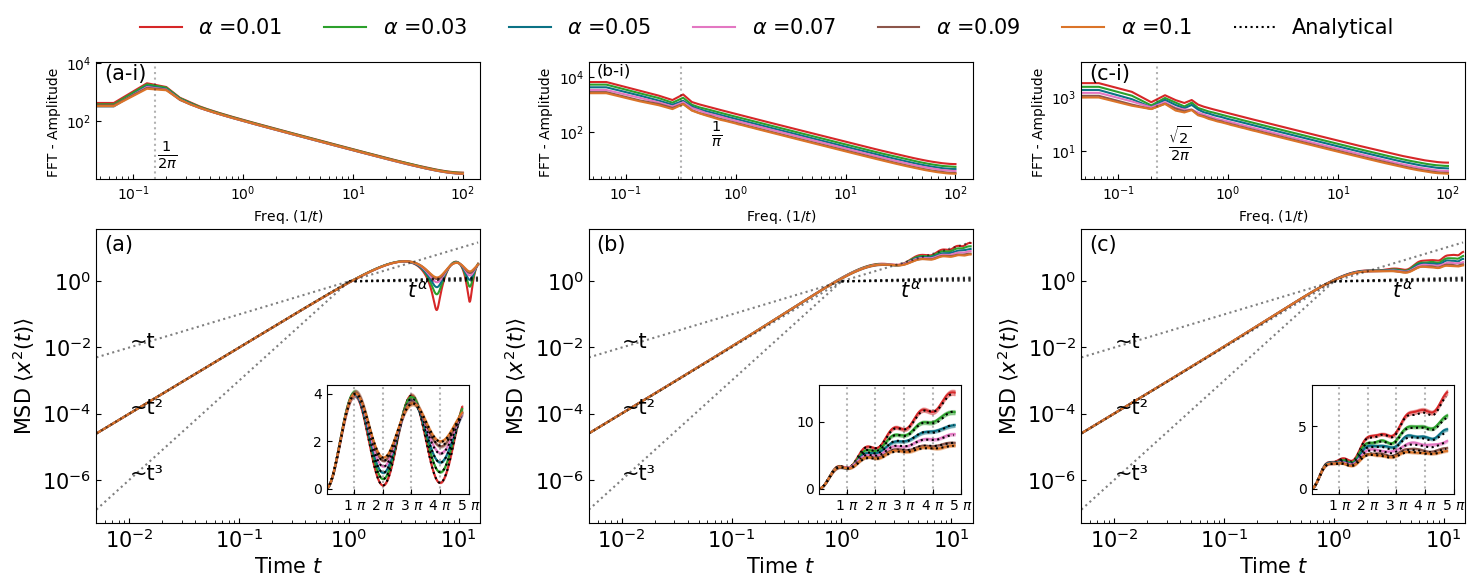
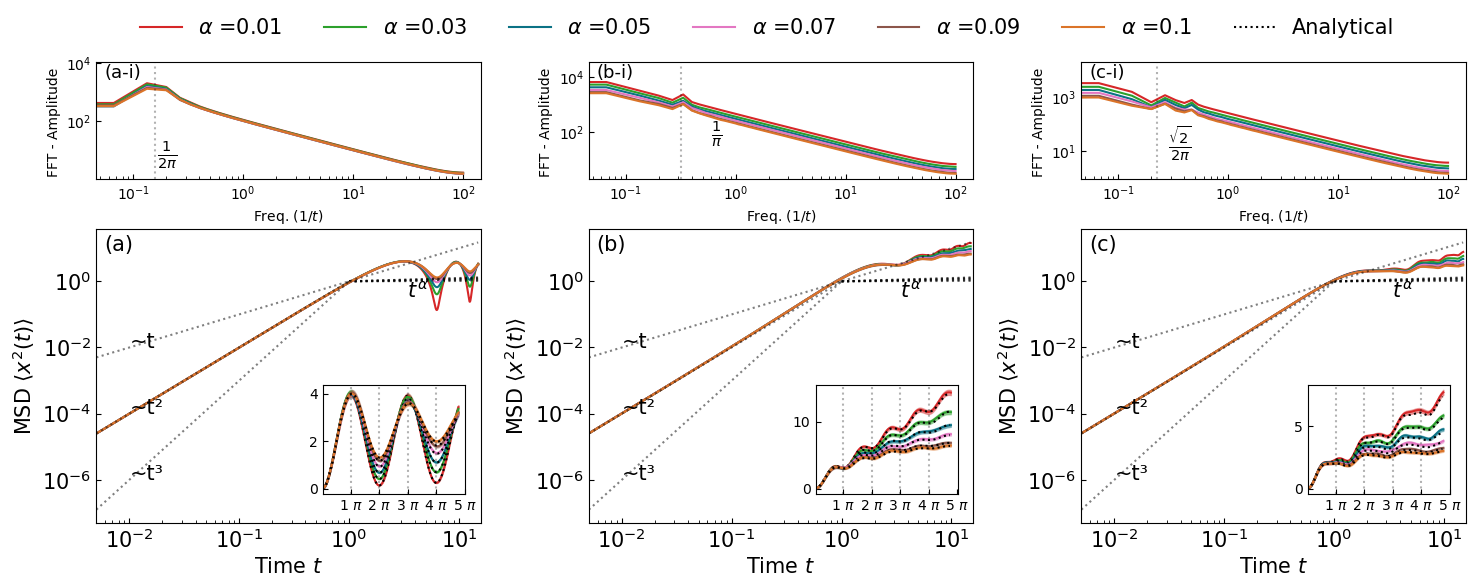
fix: caption size and inset place

diff --git a/scripts/fig2_layout2.py b/scripts/fig2_layout2.py
@@ -28,7 +28,7 @@ def add_axislabel_ins(axins, axi, x_text = "Freq. "+ r"$(1/t)$", y_text = "Amp."
  ################ TIME CRYSTAL #################
 #################################################
 axi = ax[0]
-axins = axi.inset_axes([0.6, 0.1, 0.37, 0.37])
+axins = axi.inset_axes([0.59, 0.1, 0.37, 0.37])
 axins_ = axi.inset_axes([0.0, 1.17, 1.0, 0.4])
 
 T = 15
@@ -91,14 +91,14 @@ handles, labels = axins.get_legend_handles_labels()
 axins.get_legend().remove()
 
 pu.add_caption_letter(axi, "(a)")
-pu.add_caption_letter(axins_, "(a-i)", fontsize = 15)
+pu.add_caption_letter(axins_, "(a-i)", fontsize = 13)
 
 #################################################
  ################ TIME GLASS #################
 #################################################
 
 axi = ax[1]
-axins = axi.inset_axes([0.6, 0.1, 0.37, 0.37])
+axins = axi.inset_axes([0.59, 0.1, 0.37, 0.37])
 axins_ = axi.inset_axes([0.0, 1.17, 1.0, 0.4])
 
 T = 15
@@ -161,14 +161,14 @@ handles, labels = axins.get_legend_handles_labels()
 axins.get_legend().remove()
 
 pu.add_caption_letter(axi, "(b)")
-pu.add_caption_letter(axins_, "(b-i)", fontsize = 12)
+pu.add_caption_letter(axins_, "(b-i)", fontsize = 13)
 
 #################################################
  ################ MIXED PHASE #################
 #################################################
 
 axi = ax[2]
-axins = axi.inset_axes([0.6, 0.1, 0.37, 0.37])
+axins = axi.inset_axes([0.59, 0.1, 0.37, 0.37])
 axins_ = axi.inset_axes([0.0, 1.17, 1.0, 0.4])
 
 T = 15
@@ -231,7 +231,7 @@ handles, labels = axins.get_legend_handles_labels()
 axins.get_legend().remove()
 
 pu.add_caption_letter(axi, "(c)")
-pu.add_caption_letter(axins_, "(c-i)", fontsize = 15)
+pu.add_caption_letter(axins_, "(c-i)", fontsize = 13)
 
 ###### ###### ######
  ###### SAVE ######
